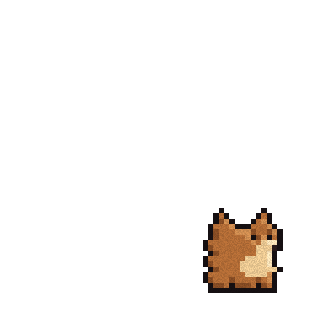
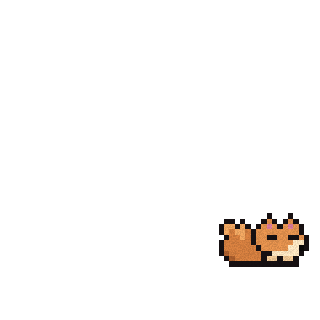
Family scene: wife cradling their daughter, sleeping poms
- Wife holds their daughter against her chest in both arms; the daughter
  is drawn smaller to fit, with her legs and booties hanging below, and the
  wife wears a small gold stud.
- Two Pomeranians asleep in the avatar's pixel style: a small black one
  curled on his lap and a brown one at the foot of the desk.
- The daughter is now part of the wife's sprite, so family-daughter.png
  goes; the component's comment and accessible label describe the scene.

Changed region(s): [[0.625, 0.625, 0.9688, 0.9375]]

diff --git a/src/components/Pixel/PixelGoku.tsx b/src/components/Pixel/PixelGoku.tsx
@@ -3,10 +3,11 @@ import styles from "./PixelGoku.module.css";
 
 // Pixel Didier at his desk. `superSaiyan` turns his hair gold (a hair-only
 // layer made from the same art, static/img/pixel/goku-hair-ssj.png) with an
-// aura around him; `family` brings in his wife, standing behind him, drawn
-// as Android 18 (blonde bob, denim vest and skirt), and then his newborn
-// daughter, sitting on his lap, drawn as baby Marron; `screen` is drawn on
-// the laptop screen. The sprite is square and fills the width it is given.
+// aura around him; `family` zooms the scene out and brings in his wife,
+// standing behind him holding their daughter, then their two Pomeranians: the
+// black one asleep on his lap, the brown one asleep at the foot of the desk; `screen`
+// is drawn on the laptop screen. The sprite is square and fills the width it
+// is given.
 
 interface Props {
 	superSaiyan?: boolean;
@@ -27,25 +28,26 @@ export default function PixelGoku({
 		<div
 			className={`${styles.root} ${superSaiyan ? styles.powered : ""} ${family ? styles.withFamily : ""} ${className ?? ""}`}
 			role="img"
-			aria-label={[alt, superSaiyan && "powered up with golden hair", family && "with his wife behind him dressed as Android 18 and his newborn daughter on his lap dressed as Marron"]
+			aria-label={[alt, superSaiyan && "powered up with golden hair", family && "with his wife behind him holding their daughter, a small black Pomeranian asleep on his lap and a brown one asleep at the foot of the desk"]
 				.filter(Boolean)
 				.join(", ")}
 		>
-			{/* His wife stands at the left, in the room the scene makes when it
-			    zooms out (a 320px canvas around his 256px one). */}
+			{/* His wife, holding their daughter, stands at the left, in the room
+			    the scene makes when it zooms out (a 320px canvas around his 256px
+			    one, on the same pixel grid). The dogs use the same canvas. */}
 			<img src="/img/pixel/family-wife.png" alt="" width={320} height={320} className={`${styles.layer} ${styles.wife}`} />
 			<div className={styles.scene}>
 				<span className={styles.aura} aria-hidden="true" />
 				<img src="/img/pixel/goku-desk.png" alt="" width={256} height={256} className={styles.layer} />
 				<img src="/img/pixel/goku-hair-ssj.png" alt="" width={256} height={256} className={`${styles.layer} ${styles.hair}`} />
-				<img src="/img/pixel/family-daughter.png" alt="" width={256} height={256} className={`${styles.layer} ${styles.daughter}`} />
 				{screen && (
 					<div className={styles.screen} aria-hidden="true">
 						{screen}
 					</div>
 				)}
 			</div>
-			{/* The dogs sit in front of the desk, on the same 320px canvas. */}
+			{/* The black one is curled up on his lap; the brown one sleeps on the
+			    floor at the foot of the desk. */}
 			<img src="/img/pixel/family-dog-black.png" alt="" width={320} height={320} className={`${styles.layer} ${styles.dogBlack}`} />
 			<img src="/img/pixel/family-dog-brown.png" alt="" width={320} height={320} className={`${styles.layer} ${styles.dogBrown}`} />
 		</div>

diff --git a/src/components/Pixel/PixelGoku.module.css b/src/components/Pixel/PixelGoku.module.css
@@ -64,12 +64,12 @@
 }
 
 /* Everything at his desk. With the family it zooms out to 80%, towards the
-   right, leaving room for his wife at the left and the dogs at the front. */
+   right, leaving room for his wife at the left. */
 .scene {
 	position: absolute;
 	inset: 0;
 	transform-origin: 100% 50%;
-	transition: transform 0.35s ease 0.5s;
+	transition: transform 0.35s ease 0.45s;
 }
 
 .withFamily .scene {
@@ -77,34 +77,30 @@
 	transition-delay: 0s;
 }
 
-/* Once there is room: his wife steps in, his daughter hops onto his lap, then
-   the dogs trot in. Leaving, they go in the reverse order. */
+/* Once there is room: his wife steps in with their daughter, then the dogs
+   settle in for a nap. Leaving, they go in the reverse order. */
 .wife,
-.daughter,
 .dogBlack,
 .dogBrown {
 	opacity: 0;
+	transition: opacity 0.3s steps(3), transform 0.3s steps(3);
+}
+
+.wife {
 	transform: translateY(3%);
-	transition:
-		opacity 0.3s steps(3),
-		transform 0.3s steps(3);
+	transition-delay: 0.2s;
 }
 
 .dogBlack,
 .dogBrown {
-	transform: translateX(-4%);
+	transform: translateY(-2%);
 }
 
-.daughter {
-	transition-delay: 0.2s;
-}
-
-.wife {
-	transition-delay: 0.35s;
+.dogBrown {
+	transition-delay: 0.1s;
 }
 
 .withFamily .wife,
-.withFamily .daughter,
 .withFamily .dogBlack,
 .withFamily .dogBrown {
 	opacity: 1;
@@ -115,16 +111,12 @@
 	transition-delay: 0.3s;
 }
 
-.withFamily .daughter {
-	transition-delay: 0.65s;
+.withFamily .dogBlack {
+	transition-delay: 0.7s;
 }
 
 .withFamily .dogBrown {
-	transition-delay: 0.95s;
-}
-
-.withFamily .dogBlack {
-	transition-delay: 1.15s;
+	transition-delay: 0.9s;
 }
 
 /* The laptop screen, in sprite pixels (256): x 172-224, y 115-158. */
@@ -154,7 +146,6 @@
 
 	.scene,
 	.wife,
-	.daughter,
 	.dogBlack,
 	.dogBrown {
 		transition: none;
